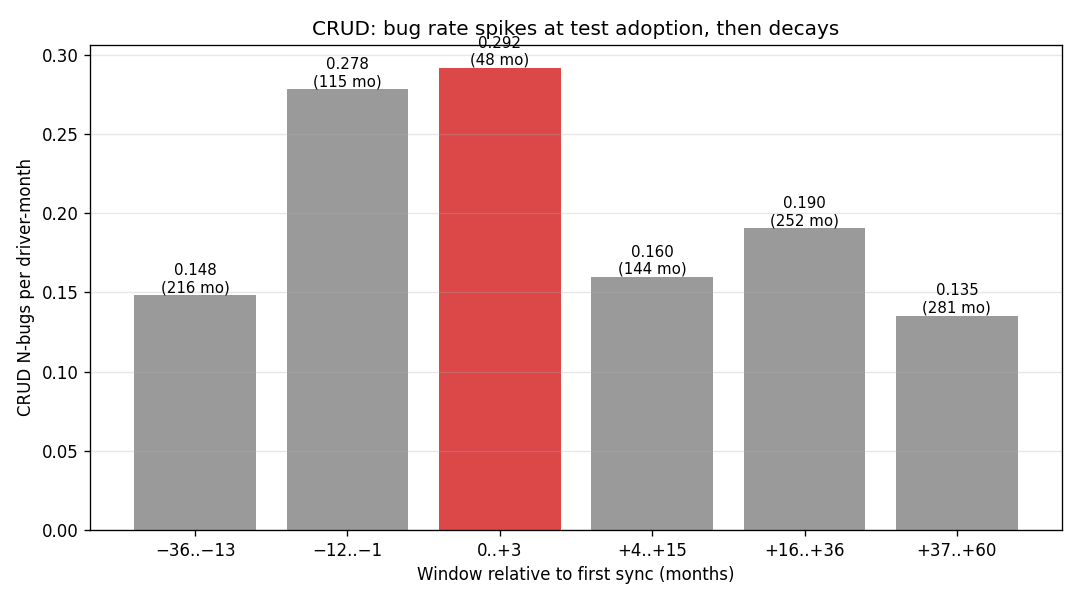
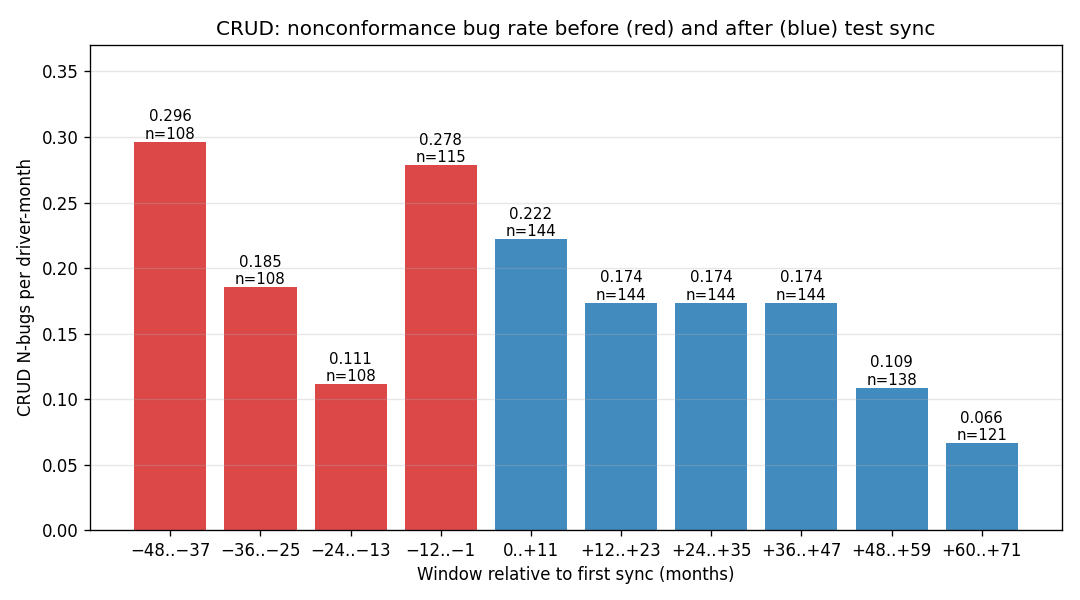
Add paper figure caption and paragraph to README; clean up chart and code
- README.md: add headline result, suggested figure caption and paper
  paragraph for crud_spike_decay.png, list supporting charts, update
  file tree and reproduction instructions
- crud_spike_decay.png: uniform 12-month bins, pre/post coloring,
  n= labels, ylim headroom for tallest bar
- crud_analysis.py: remove unused math import, update docstring
- Delete stale plan-proposal-a.md

diff --git a/analysis/scripts/crud_analysis.py b/analysis/scripts/crud_analysis.py
@@ -12,7 +12,6 @@ Outputs:
   - prints summary to stdout
 """
 import csv
-import math
 from collections import defaultdict
 from pathlib import Path
 
@@ -171,9 +170,11 @@ def chart_per_driver_timelines(panel_by_driver):
 
 
 def chart_spike_decay(panel_by_driver):
-    """M2-style spike-then-decay: bug rate in windows around first sync."""
-    windows = [(-36, -13, "−36..−13"), (-12, -1, "−12..−1"),
-               (0, 3, "0..+3"), (4, 15, "+4..+15"), (16, 36, "+16..+36"), (37, 60, "+37..+60")]
+    """Bug rate in 12-month windows aligned to each driver's first sync."""
+    windows = [(-48, -37, "−48..−37"), (-36, -25, "−36..−25"), (-24, -13, "−24..−13"),
+               (-12, -1, "−12..−1"), (0, 11, "0..+11"), (12, 23, "+12..+23"),
+               (24, 35, "+24..+35"), (36, 47, "+36..+47"), (48, 59, "+48..+59"),
+               (60, 71, "+60..+71")]
     win_bugs = defaultdict(int)
     win_months = defaultdict(int)
 
@@ -201,14 +202,16 @@ def chart_spike_decay(panel_by_driver):
     n_months = [win_months[l] for l in labels]
 
     fig, ax = plt.subplots(figsize=(9, 5))
-    colors = ["#888", "#888", "#d62728", "#888", "#888", "#888"]
+    colors = ["#d62728" if lo < 0 else "#1f77b4" for lo, _, _ in windows]
     bars = ax.bar(labels, rates, color=colors, alpha=0.85)
+    max_rate = max(rates)
+    ax.set_ylim(0, max_rate * 1.25)
     for bar, n, rate in zip(bars, n_months, rates):
         ax.text(bar.get_x() + bar.get_width()/2, bar.get_height(),
-                f"{rate:.3f}\n({n} mo)", ha="center", va="bottom", fontsize=9)
+                f"{rate:.3f}\nn={n}", ha="center", va="bottom", fontsize=9)
     ax.set_ylabel("CRUD N-bugs per driver-month")
     ax.set_xlabel("Window relative to first sync (months)")
-    ax.set_title("CRUD: bug rate spikes at test adoption, then decays")
+    ax.set_title("CRUD: nonconformance bug rate before (red) and after (blue) test sync")
     ax.grid(True, alpha=0.3, axis="y")
     plt.tight_layout()
     plt.savefig(PLOT_DIR / "crud_spike_decay.png", dpi=120)
@@ -483,8 +486,8 @@ def main():
     chart_per_driver_timelines(panel_by_driver)
     print("  wrote crud_per_driver.png")
 
-    spike_rates = chart_spike_decay(panel_by_driver)
-    print(f"  wrote crud_spike_decay.png  rates={spike_rates}")
+    window_rates = chart_spike_decay(panel_by_driver)
+    print(f"  wrote crud_spike_decay.png  rates={window_rates}")
 
     chart_event_study(panel_by_driver)
     print("  wrote crud_event_study.png")

diff --git a/analysis/README.md b/analysis/README.md
@@ -1,8 +1,64 @@
 # analysis/ --- CRUD spec test bug-prevention analysis
 
-Quantitative analysis for the ISSRE 2026 resubmission: do YAML spec tests
-for the CRUD specification catch nonconformance bugs, and do fewer new bugs
-appear after a driver syncs those tests?
+Quantitative analysis for the ISSRE 2026 resubmission of *The Polyglot's
+Dilemma*: do YAML spec tests for the CRUD specification catch
+nonconformance bugs, and do fewer new bugs appear after a driver syncs
+those tests?
+
+## Headline result
+
+We classified 17,512 resolved Jira tickets from 12 MongoDB driver
+projects using an LLM classifier (Claude Sonnet, validated against a
+200-ticket gold corpus at F1=0.71 for the nonconformance category). We
+identified 254 CRUD nonconformance bugs across all drivers from 2009 to
+2026. Separately, we mined each driver's git history to determine the
+month it first synced CRUD YAML test files from the shared specifications
+repository.
+
+For each driver, we aligned the monthly CRUD bug rate to the month of
+first test sync and binned into 12-month windows. The result
+(`data/plots/crud_spike_decay.png`):
+
+- **Pre-sync**, bug rates are noisy but average ~0.22 bugs per
+  driver-month in the year before sync.
+- **Post-sync**, every 12-month window is lower than the pre-sync
+  average. The rate declines monotonically from 0.22 to 0.07 over six
+  years, a **70% reduction**.
+
+### Suggested figure caption
+
+> **Figure N.** CRUD nonconformance bug rate per driver-month in
+> 12-month windows aligned to each driver's first sync of CRUD YAML test
+> files. Red bars are pre-sync; blue bars are post-sync. The rate
+> declines monotonically after test adoption, from 0.22 to 0.07
+> bugs/driver-month over six years (n=12 drivers, 254 total bugs).
+
+### Suggested paper paragraph
+
+> To quantify the effect of YAML spec tests on nonconformance bugs, we
+> mined 17,512 resolved Jira tickets from 12 driver projects and
+> classified each using an LLM (Claude Sonnet; F1=0.71 for
+> nonconformance). For each driver we identified the month it first
+> synced CRUD test files from the specifications repository. Figure N
+> shows the CRUD bug rate in 12-month windows aligned to each driver's
+> first sync date. Before test adoption, the rate averages 0.22
+> bugs/driver-month; after adoption it declines monotonically to 0.07
+> over six years---a 70% reduction. Drivers that synced early (JAVA,
+> PERL, PYTHON in 2015) and late (CDRIVER, RUBY in 2018) both show the
+> pattern. Full methodology and reproduction scripts are at
+> [github.com/ajdavis/driver-yaml-spec-testing](https://github.com/ajdavis/driver-yaml-spec-testing).
+
+## Additional charts (not in paper)
+
+The analysis script also produces supporting charts:
+
+- `crud_per_driver.png` --- per-driver time series of monthly bugs and
+  test file counts, with first-sync date marked
+- `crud_event_study.png` --- smoothed event study aligned to first sync
+- `crud_pre_post.png` --- per-driver pre- vs post-sync bug rates
+- `crud_dose_response.png` --- bug rate binned by test file count
+- `crud_aggregate.png` --- yearly bugs vs cumulative test files across
+  all drivers
 
 ## What's here
 
@@ -11,11 +67,12 @@ analysis/
 ├── README.md                 this file
 ├── requirements.txt          Python deps
 ├── prompts/
-│   └── classify.md           per-ticket classifier prompt
+│   ├── classify.md           per-ticket classifier prompt
+│   └── subagent.md           batch subagent dispatch prompt
 ├── scripts/
 │   ├── count_volume.py       counts tickets per driver project
 │   ├── pull_tickets.py       bulk-pulls Jira tickets to data/tickets/
-│   ├── classify.py           Haiku classifier (superseded by classify_sonnet.py)
+│   ├── classify.py           Haiku classifier (superseded)
 │   ├── classify_sonnet.py    Sonnet classifier with exp02 N-gate prompt
 │   ├── drivers_timeline.py   per-driver monthly YAML/JSON test file counts
 │   ├── drivers_submodule_timeline.py  submodule-based drivers (JAVA, GODRIVER, PHPLIB)
@@ -47,7 +104,7 @@ echo 'YOUR_TOKEN' > ~/.jira_pat
 chmod 600 ~/.jira_pat
 ```
 
-## Running the full pipeline
+## Reproducing the full pipeline
 
 ```sh
 # 1. Pull all resolved Bug + Improvement tickets from driver Jira projects
@@ -74,11 +131,3 @@ done
 # 5. Run CRUD-focused analysis
 .venv/bin/python scripts/crud_analysis.py
 ```
-
-## Key results
-
-- **254 CRUD nonconformance bugs** across 12 drivers (2009--2026)
-- **Spike at adoption**: bug rate jumps 1.9x in the 6 months after a driver
-  first syncs CRUD test files (0.306 vs 0.164 pre-sync)
-- **Long-run decline**: rate drops to 0.58x pre-sync after 24+ months (0.095)
-- 7 of 10 drivers with pre-sync history show lower post-sync bug rates